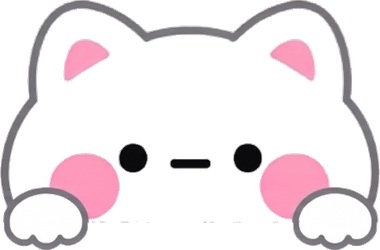
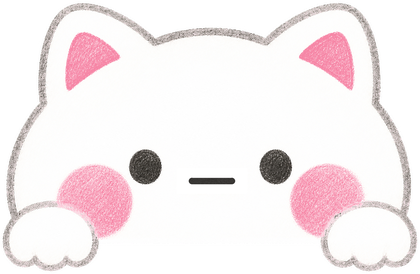
Swap mering cat images to crayon style and bump image cache key

diff --git a/index.html b/index.html
@@ -732,7 +732,7 @@
     </div>
 
     <section class="summary">
-      <img class="mering-cat" id="meringCat" src="mering-cat.png" alt="" aria-hidden="true">
+      <img class="mering-cat" id="meringCat" src="mering-cat.png?v=crayon" alt="" aria-hidden="true">
       <div class="sum-label">이 달 남는 돈</div>
       <div class="sum-value" id="netBalance">0원</div>
       <div class="sum-sub" id="dailyBudget">하루에 얼마나 쓸 수 있는지 계산해요</div>
@@ -1547,10 +1547,10 @@
       el.netBalance.textContent = (net < 0 ? '-' : '') + won(Math.abs(net));
       var catEl = document.getElementById('meringCat');
       if (catEl) {
-        var catSrc = net >= 200000 ? 'mering-cat.png'
-          : net >= 100000 ? 'mering-cat-2.png'
-          : net >= 0 ? 'mering-cat-3.png'
-          : 'mering-cat-4.png';
+        var catSrc = net >= 200000 ? 'mering-cat.png?v=crayon'
+          : net >= 100000 ? 'mering-cat-2.png?v=crayon'
+          : net >= 0 ? 'mering-cat-3.png?v=crayon'
+          : 'mering-cat-4.png?v=crayon';
         if (catEl.getAttribute('src') !== catSrc) catEl.setAttribute('src', catSrc);
       }
       el.totalIncome.textContent = '+' + won(totalIn);
